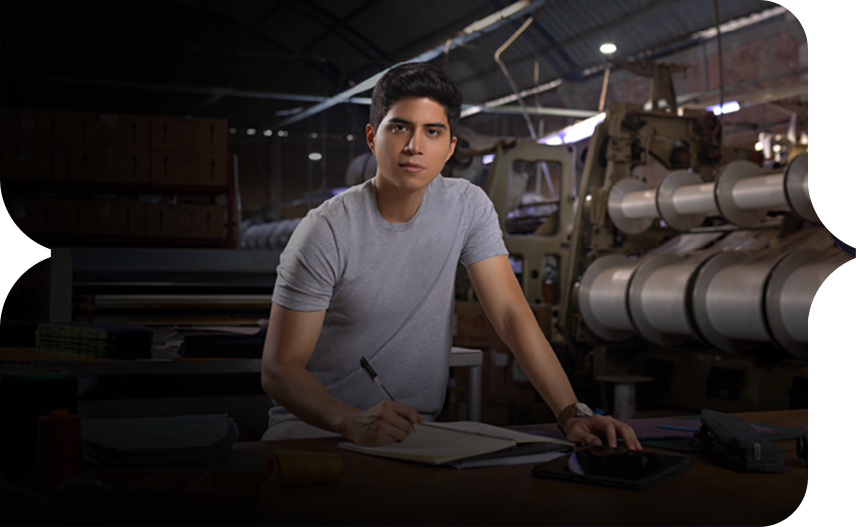
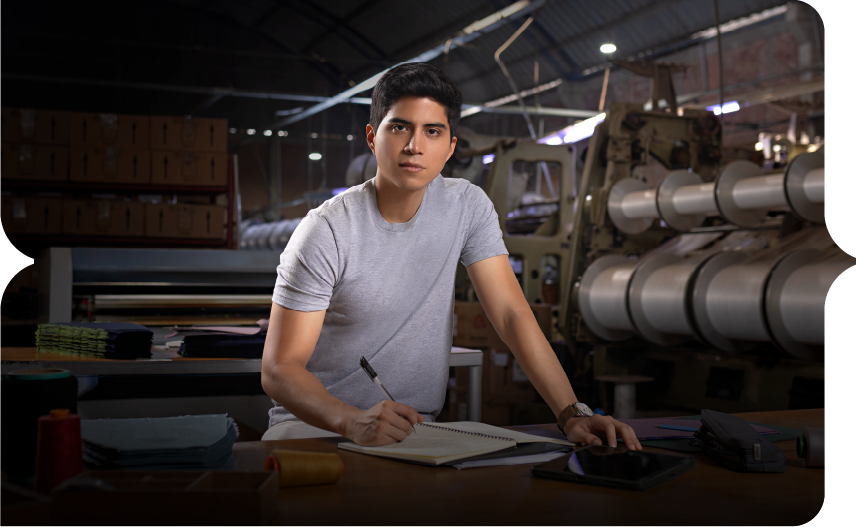
Polish hero media, section textures, Camino/Cifras backgrounds, and form density.
Use the original hero PNG, add brand cover and Camino pattern assets, soft noise on colored sections, and tighten form spacing with desktop modality radios.

diff --git a/src/styles/global.css b/src/styles/global.css
@@ -93,6 +93,31 @@
     line-height: var(--leading-normal);
   }
 
+  /* Noise only on colored section shells — not white/default surfaces */
+  .section-noise::before {
+    content: "";
+    position: absolute;
+    inset: 0;
+    z-index: 1;
+    pointer-events: none;
+    background-image: url("/assets/textures/noise.webp");
+    background-repeat: repeat;
+    background-size: 280px 271px;
+    opacity: 0.02;
+    mix-blend-mode: multiply;
+  }
+
+  .section-noise > :not([aria-hidden="true"]) {
+    position: relative;
+    z-index: 10;
+  }
+
+  @media (prefers-reduced-motion: reduce) {
+    .section-noise::before {
+      opacity: 0.015;
+    }
+  }
+
   :focus-visible {
     @apply outline-2 outline-offset-2 outline-brand;
   }

diff --git a/src/lib/cms/adapters/fixtures.ts b/src/lib/cms/adapters/fixtures.ts
@@ -56,7 +56,7 @@ export const homePage: Page = {
       line2: "no somos",
       line3: "hijitos de",
       line4: "papá",
-      imageSrc: "/assets/figma/hero/workshop.webp",
+      imageSrc: "/assets/figma/hero/workshop.png",
       imageAlt: "Estudiante en taller práctico",
       formTitle: "¡Regístrate y recibe más información!",
       formSubtitle: "Escoge la modalidad que prefieras",
